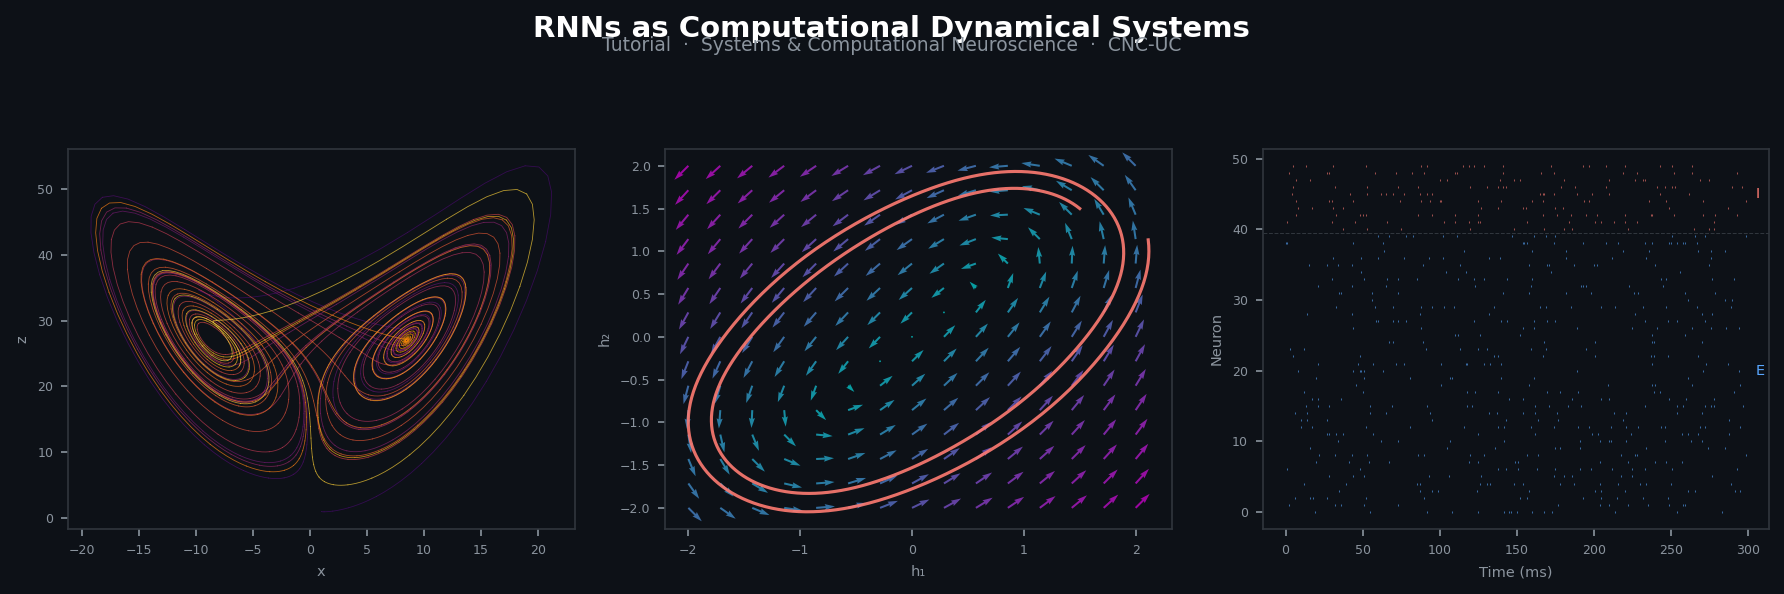
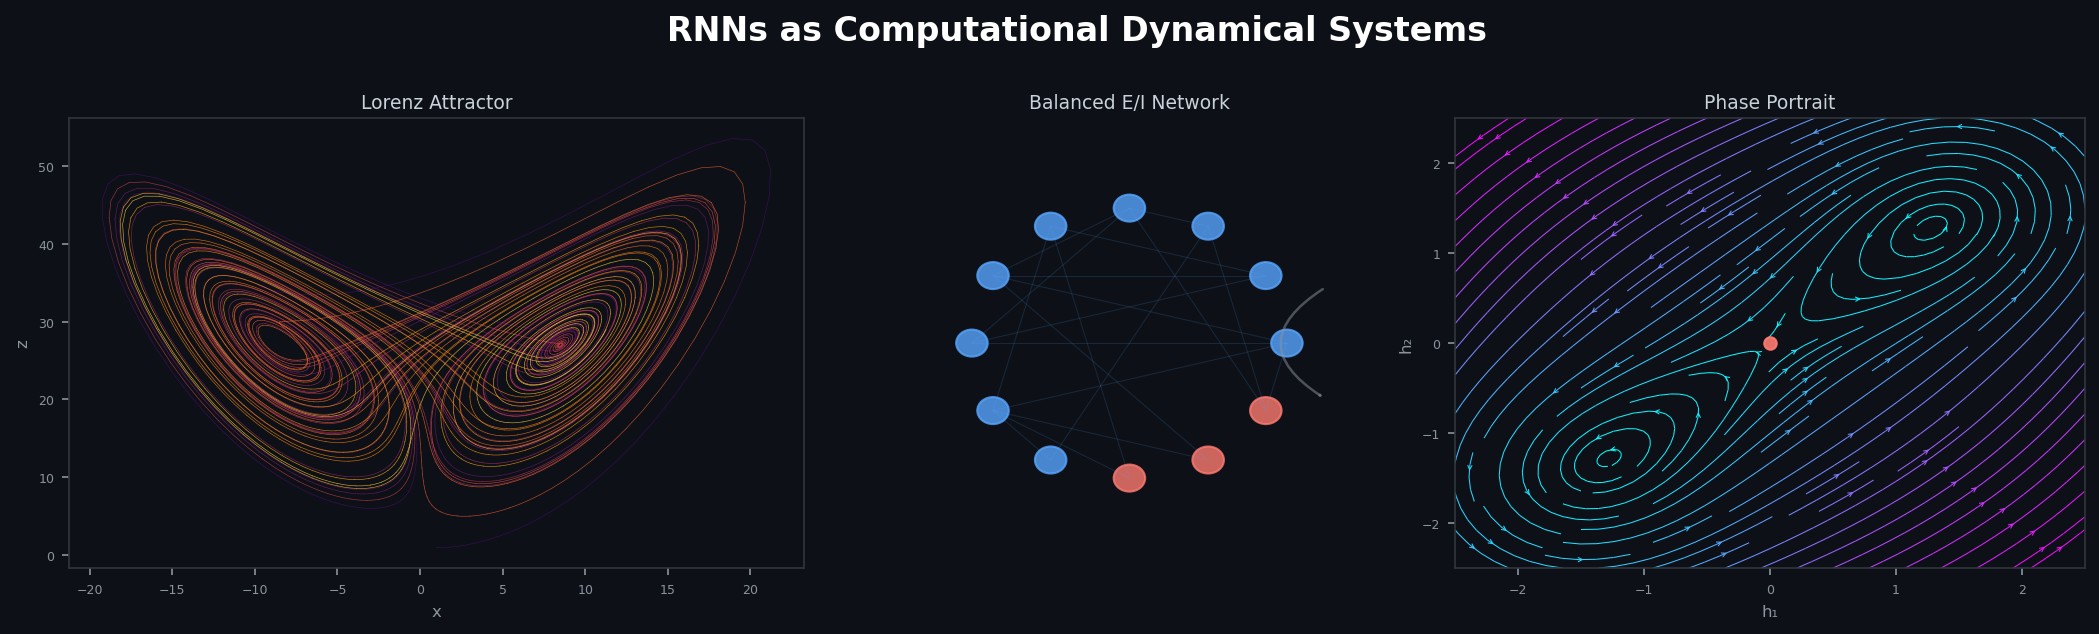
docs: replace images, add paper links, expand educational resource links
Software Libraries:
- Replace OpenGraph placeholders with proper diagrams for FNA, NMSAT, ROS-MUSIC
- Add ROS-MUSIC publication references (Weidel et al. 2016, Jordan et al. 2019)

SymSeqBench:
- Add overview diagram from Zajzon, Bouhadjar, Fabre et al. (2024)
- Link to arxiv paper, expand description

Featured Research:
- Add paper DOIs for all projects (eLife, Frontiers, PLOS, IJCNN, CogSci)
- Link to publications page alongside resources page

Educational Resources:
- Replace generated plot banners with proper course banners from UC website
- New course-flow banner for IntSciPro, improved RNNs dynamical systems banner
- Add Comp Bio 2024 banner from UC website
- Link Comp Bio 2025/2024 to course websites at uc.pt
- Link IntSciPro and RNNs tutorial to idpIN programme page

Cleanup:
- Remove unused nl-logo.png (neurolytics removed)

diff --git a/profile/README.md b/profile/README.md
@@ -38,6 +38,7 @@ Visit our [website](https://www.comp-neuro.org/) to learn more about our researc
     </a>
   </td>
   <td width="50%" align="center">
+    <img src="https://raw.githubusercontent.com/CNNC-Lab/.github/main/profile/assets/fna-diagram.png" alt="FNA Pipeline" width="250"><br>
     <h3>FNA: Functional Neural Architectures</h3>
     <p>A Python framework for designing, simulating and analyzing functional neural architectures.</p>
     <a href="https://doi.org/10.5281/zenodo.5648150" target="_blank">
@@ -47,24 +48,29 @@ Visit our [website](https://www.comp-neuro.org/) to learn more about our researc
 </tr>
 <tr>
   <td width="50%" align="center">
-    <img src="https://opengraph.githubassets.com/1/rcfduarte/nmsat" alt="NMSAT" width="250"><br>
+    <img src="https://raw.githubusercontent.com/CNNC-Lab/.github/main/profile/assets/nmsat-diagram.png" alt="NMSAT" width="250"><br>
     <h3>NMSAT: Neural Microcircuit Simulation and Analysis Toolkit</h3>
     <p>A toolkit for simulation and analysis of neural microcircuits.</p>
     <a href="https://github.com/rcfduarte/nmsat" target="_blank">GitHub Repository</a> &middot;
     <a href="https://doi.org/10.5281/zenodo.594850" target="_blank">Zenodo DOI</a>
   </td>
   <td width="50%" align="center">
-    <img src="https://opengraph.githubassets.com/1/weidel-p/ros_music_adapter" alt="ROS-MUSIC Adapter" width="250"><br>
+    <img src="https://raw.githubusercontent.com/CNNC-Lab/.github/main/profile/assets/ros-music-diagram.jpg" alt="ROS-MUSIC Adapter" width="250"><br>
     <h3>ROS-MUSIC Adapter</h3>
     <p>An interface between the Robot Operating System (ROS) and the MUSIC library for neural simulators.</p>
-    <a href="https://github.com/weidel-p/ros_music_adapter" target="_blank">GitHub Repository</a>
+    <a href="https://github.com/weidel-p/ros_music_adapter" target="_blank">GitHub Repository</a><br>
+    <sub>Weidel et al. (2016) <a href="https://doi.org/10.3389/fninf.2016.00012"><i>Front. Neuroinform.</i> 10:12</a> &middot; Jordan et al. (2019) <a href="https://doi.org/10.3389/fncom.2019.00055"><i>Front. Comput. Neurosci.</i> 13:55</a></sub>
   </td>
 </tr>
 </table>
 
 ### SymSeqBench
 
-The [SymSeqBench](https://github.com/symseqbench) project provides a suite of tools and benchmarks for symbolic sequence processing and analysis, bridging computational neuroscience with sequence modeling:
+<div align="center">
+  <img src="https://raw.githubusercontent.com/CNNC-Lab/.github/main/profile/assets/symseqbench-diagram.png" alt="SymSeqBench Overview" width="600">
+</div>
+
+The [SymSeqBench](https://github.com/symseqbench) project provides a unified framework for the generation and analysis of rule-based symbolic sequences and datasets, bridging formal language theory, psycholinguistics, and artificial intelligence. It comprises two complementary tools: **SymSeq** for generating and analyzing structured symbolic sequences, and **SeqBench** for benchmarking sequence learning in artificial systems. See [Zajzon, Bouhadjar, Fabre et al. (2024)](https://arxiv.org/abs/2512.24977) for details.
 
 - [**SymSeq**](https://github.com/symseqbench/SymSeq) -- Python library for defining, generating, and analyzing symbolic sequences
 - [**SeqBench**](https://github.com/symseqbench/SeqBench) -- Transforming, embedding, and benchmarking symbolic sequences
@@ -72,36 +78,41 @@ The [SymSeqBench](https://github.com/symseqbench) project provides a suite of to
 
 ## Featured Research Projects
 
-For a complete list of our research projects, visit our [resources page](https://www.comp-neuro.org/resources/software).
+For a complete list, see our [resources](https://www.comp-neuro.org/resources/software) and [publications](https://www.comp-neuro.org/publications) pages.
 
 <table>
 <tr>
   <td width="33%" align="center">
     <h3>Signal Denoising Through Topographic Modularity</h3>
-    <p>Research on signal denoising using topographic modularity in neural circuits.</p>
-    <a href="https://zenodo.org/records/6326497" target="_blank">Zenodo Record</a>
+    <p>Signal denoising through topographic modularity of neural circuits.</p>
+    <a href="https://doi.org/10.7554/eLife.77009" target="_blank">Zajzon et al. (2023) <i>eLife</i></a> &middot;
+    <a href="https://zenodo.org/records/6326497" target="_blank">Code</a>
   </td>
   <td width="33%" align="center">
     <h3>Reproducible Models of Sequence Learning</h3>
-    <p>Research towards creating reproducible models of sequence learning in neural networks.</p>
-    <a href="https://zenodo.org/records/6418714" target="_blank">Zenodo Record</a>
+    <p>Toward reproducible models of sequence learning: replication and analysis of a modular spiking network with reward-based learning.</p>
+    <a href="https://doi.org/10.3389/fnint.2023.935177" target="_blank">Zajzon et al. (2023) <i>Front. Integr. Neurosci.</i></a> &middot;
+    <a href="https://zenodo.org/records/6418714" target="_blank">Code</a>
   </td>
   <td width="33%" align="center">
-    <h3>Heterogeneity in Layer 2/3 Circuit Model</h3>
-    <p>Study of heterogeneity in layer 2/3 circuit models of neural networks.</p>
-    <a href="https://osf.io/eqz7t/" target="_blank">OSF Repository</a>
+    <h3>Heterogeneity in Layer 2/3 Cortical Microcircuits</h3>
+    <p>Leveraging heterogeneity for neural computation with fading memory in layer 2/3 cortical microcircuits.</p>
+    <a href="https://doi.org/10.1371/journal.pcbi.1006781" target="_blank">Duarte &amp; Morrison (2019) <i>PLOS Comput. Biol.</i></a> &middot;
+    <a href="https://osf.io/eqz7t/" target="_blank">Code</a>
   </td>
 </tr>
 <tr>
   <td width="33%" align="center">
     <h3>Encoding and Decoding Symbolic Sequences</h3>
-    <p>Research on encoding and decoding symbolic sequences in spiking neural reservoirs.</p>
-    <a href="https://gitlab.com/rcfduarte/encodingdecoding" target="_blank">GitLab Repository</a>
+    <p>Encoding symbolic sequences with spiking neural reservoirs.</p>
+    <a href="https://doi.org/10.1109/IJCNN.2018.8489114" target="_blank">Duarte et al. (2018) <i>IJCNN</i></a> &middot;
+    <a href="https://gitlab.com/rcfduarte/encodingdecoding" target="_blank">Code</a>
   </td>
   <td width="33%" align="center">
     <h3>Artificial Grammar Learning</h3>
-    <p>Study of artificial grammar learning in binary balanced networks.</p>
-    <a href="https://gitlab.com/rcfduarte/agl_cogsci2014.git" target="_blank">GitLab Repository</a>
+    <p>Self-organized artificial grammar learning in spiking neural networks.</p>
+    <a href="https://escholarship.org/uc/item/75j1b2t0" target="_blank">Duarte et al. (2014) <i>CogSci</i></a> &middot;
+    <a href="https://gitlab.com/rcfduarte/agl_cogsci2014" target="_blank">Code</a>
   </td>
   <td width="33%"></td>
 </tr>
@@ -111,36 +122,41 @@ For a complete list of our research projects, visit our [resources page](https:/
 
 <table>
 <tr>
-  <td colspan="3" align="center">
+  <td colspan="2" align="center">
     <img src="https://raw.githubusercontent.com/CNNC-Lab/.github/main/profile/assets/compbio2025-banner.png" alt="Computational Biology 2025" width="700"><br>
     <h3>Computational Biology 2025</h3>
     <p>Project resources for the 2025 edition of the Summer School in Computational Biology at the University of Coimbra. Covers spiking neural network simulations, population dynamics analysis, and machine learning approaches for finding structure in neural data.</p>
+    <a href="https://www.uc.pt/events/computationalbiology/2025/" target="_blank">Course Website</a> &middot;
     <a href="https://github.com/CNNC-Lab/computational-biology-2025" target="_blank">GitHub Repository</a>
   </td>
 </tr>
-<tr><td colspan="3" height="10"></td></tr>
+<tr><td colspan="2" height="10"></td></tr>
 <tr>
-  <td colspan="3" align="center">
+  <td colspan="2" align="center">
     <img src="https://raw.githubusercontent.com/CNNC-Lab/.github/main/profile/assets/intscipro2025-banner.png" alt="Introduction to Scientific Programming 2025" width="700"><br>
     <h3>Introduction to Scientific Programming (WS 2025/2026)</h3>
     <p>Advanced course for PhD students in integrative neuroscience at the University of Coimbra. Covers Python programming, data analysis, visualization, numerical computing, machine learning, neural networks, and simulation -- with AI-assisted learning and professional software development practices.</p>
+    <a href="https://idpin.cnc.uc.pt" target="_blank">idpIN Programme</a> &middot;
     <a href="https://github.com/CNNC-Lab/intscipro-2025" target="_blank">GitHub Repository</a>
   </td>
 </tr>
-<tr><td colspan="3" height="10"></td></tr>
+<tr><td colspan="2" height="10"></td></tr>
 <tr>
-  <td colspan="3" align="center">
+  <td colspan="2" align="center">
     <img src="https://raw.githubusercontent.com/CNNC-Lab/.github/main/profile/assets/rnns-tutorial-banner.png" alt="RNNs Tutorial" width="700"><br>
     <h3>RNNs as Computational Dynamical Systems</h3>
     <p>A hands-on tutorial for the "Systems & Computational Neuroscience" course at CNC-UC. Students implement temporal prediction of the Lorenz-63 chaotic attractor across multiple architectures -- continuous-time RNNs, balanced rate networks, and biologically plausible balanced spiking networks -- using PyTorch, Neural ODEs, and dynamical systems analysis.</p>
+    <a href="https://idpin.cnc.uc.pt" target="_blank">idpIN Programme</a> &middot;
     <a href="https://github.com/CNNC-Lab/RNNs-tutorial" target="_blank">GitHub Repository</a>
   </td>
 </tr>
-<tr><td colspan="3" height="10"></td></tr>
+<tr><td colspan="2" height="10"></td></tr>
 <tr>
   <td width="50%" align="center">
+    <img src="https://raw.githubusercontent.com/CNNC-Lab/.github/main/profile/assets/compbio2024-banner.png" alt="Computational Biology 2024" width="350"><br>
     <h3>Computational Biology 2024</h3>
-    <p>Materials and resources from the Computational Biology course at the University of Coimbra, 2024 edition.</p>
+    <p>Materials and resources from the 2024 Summer School in Computational Biology at the University of Coimbra.</p>
+    <a href="https://www.uc.pt/events/computationalbiology/2024/" target="_blank">Course Website</a> &middot;
     <a href="https://github.com/rcfduarte/computational-biology-2024" target="_blank">GitHub Repository</a>
   </td>
   <td width="50%" align="center">
